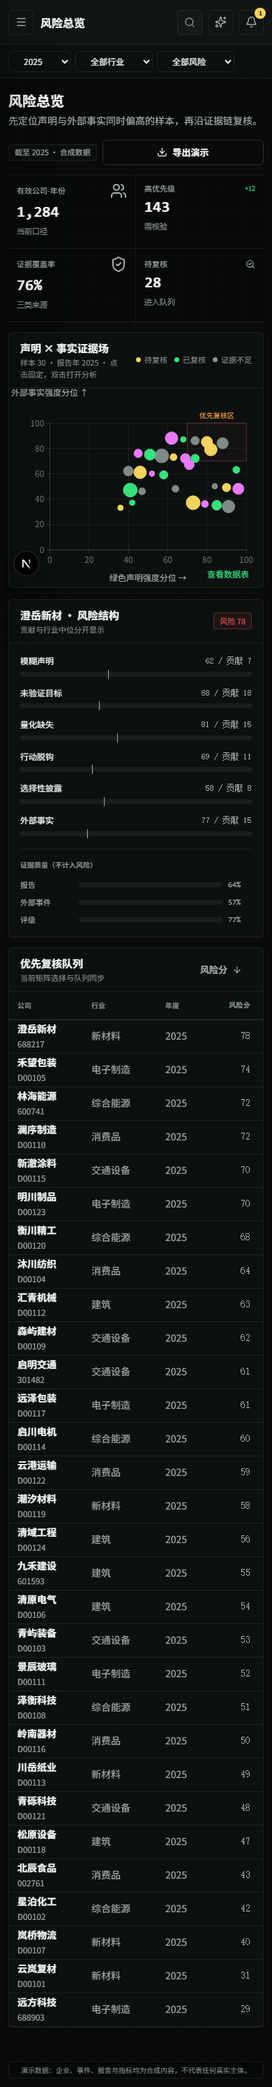
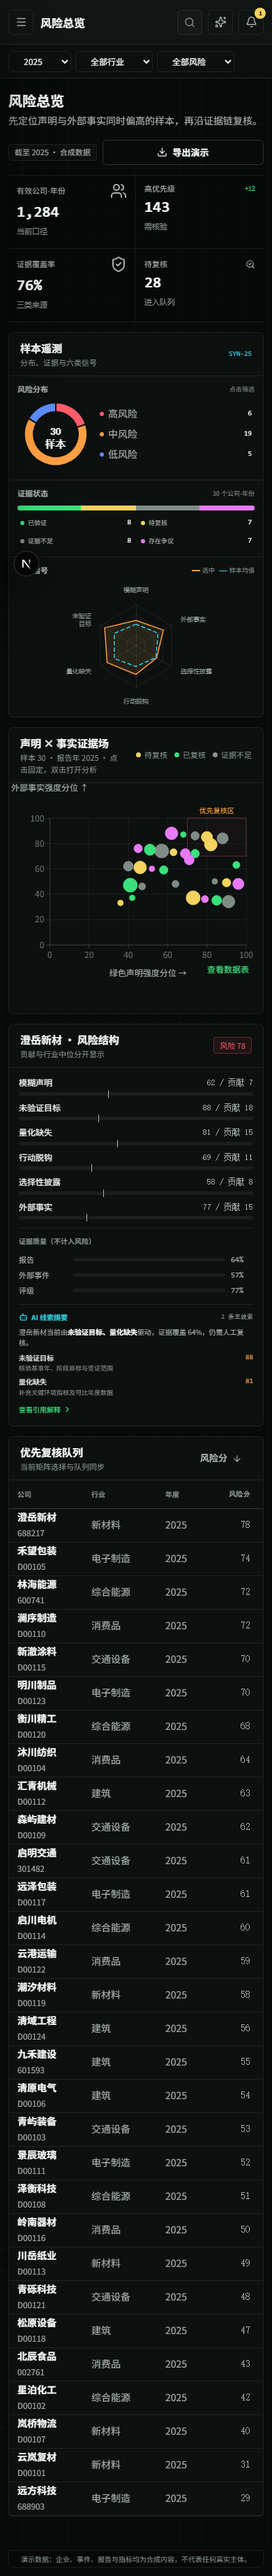
feat: enrich dashboard evidence telemetry

diff --git a/frontend-demo/src/app/globals.css b/frontend-demo/src/app/globals.css
@@ -145,8 +145,9 @@ kbd { padding: 2px 6px; border: 1px solid var(--line-strong); border-radius: 3px
 .metric-value small { margin-left: 7px; color: var(--text-muted); font-family: Inter, sans-serif; font-size: 11px; font-weight: 400; }
 .metric-delta { color: var(--green); font: 10px "IBM Plex Mono", monospace; }
 
-.dashboard-grid { display: grid; grid-template-columns: minmax(0, 2fr) minmax(310px, 1fr); gap: 16px; }
-.chart-panel { min-height: 410px; }
+.dashboard-page { gap: 16px; }
+.dashboard-grid { display: grid; grid-template-columns: minmax(220px,.72fr) minmax(0,2fr) minmax(290px,1fr); gap: 14px; align-items: stretch; }
+.chart-panel, .dashboard-telemetry, .dashboard-analysis-panel { min-height: 438px; }
 .chart-canvas { width: 100%; height: 340px; }
 .chart-wrap { position: relative; min-height: 340px; }
 .trace-line { position: absolute; z-index: 2; right: 8px; top: 100px; width: 30%; height: 90px; pointer-events: none; }
@@ -179,6 +180,50 @@ kbd { padding: 2px 6px; border: 1px solid var(--line-strong); border-radius: 3px
 .chart-data-table th, .chart-data-table td { height: 34px; padding: 0 8px; border-bottom: 1px solid var(--line-soft); text-align: left; }
 .contribution-button { width: 100%; padding: 0; border: 0; background: transparent; color: inherit; text-align: left; cursor: pointer; }
 .contribution-button:hover .contribution-meta span:first-child { color: var(--green); }
+.dashboard-telemetry { overflow: hidden; }
+.dashboard-telemetry .panel-header code { color: var(--cyan); font-size: 10px; }
+.telemetry-body { display: grid; }
+.telemetry-block { min-width: 0; padding: 10px 12px; border-bottom: 1px solid var(--line-soft); }
+.telemetry-block:last-child { border-bottom: 0; }
+.telemetry-block-title { display: flex; min-height: 18px; align-items: center; justify-content: space-between; gap: 8px; color: var(--text-secondary); font-size: 11px; font-weight: 600; }
+.telemetry-block-title small { color: var(--text-muted); font-size: 9px; font-weight: 400; }
+.telemetry-risk-layout { display: grid; grid-template-columns: 92px minmax(0,1fr); align-items: center; gap: 4px; }
+.telemetry-donut { width: 92px; height: 92px; }
+.telemetry-legend { display: grid; gap: 3px; }
+.telemetry-legend button, .evidence-state-grid button { display: grid; min-width: 0; min-height: 24px; align-items: center; padding: 2px 4px; border: 0; border-radius: 3px; background: transparent; color: var(--text-secondary); cursor: pointer; }
+.telemetry-legend button { grid-template-columns: 7px 1fr 22px; gap: 5px; text-align: left; }
+.telemetry-legend button:hover, .evidence-state-grid button:hover { background: var(--bg-hover); color: var(--text-primary); }
+.telemetry-legend i, .evidence-state-grid i { width: 6px; height: 6px; border-radius: 50%; }
+.telemetry-legend span { overflow: hidden; text-overflow: ellipsis; white-space: nowrap; }
+.telemetry-legend code, .evidence-state-grid code { color: var(--text-primary); font-size: 10px; text-align: right; }
+.evidence-stack { display: flex; height: 7px; margin: 8px 0 6px; overflow: hidden; border-radius: 3px; background: rgba(255,255,255,.05); }
+.evidence-stack i { min-width: 2px; height: 100%; }
+.evidence-state-grid { display: grid; grid-template-columns: repeat(2,minmax(0,1fr)); gap: 2px 6px; }
+.evidence-state-grid button { grid-template-columns: 1fr 20px; text-align: left; }
+.evidence-state-grid button span { display: flex; min-width: 0; align-items: center; gap: 5px; overflow: hidden; font-size: 9px; white-space: nowrap; }
+.telemetry-block-title .selected-series, .telemetry-block-title .average-series { display: inline-block; width: 12px; height: 2px; margin: 0 3px 2px 4px; background: var(--orange); }
+.telemetry-block-title .average-series { height: 1px; background: var(--cyan); }
+.telemetry-radar { width: 100%; height: 142px; }
+.telemetry-loading { display: grid; align-content: start; gap: 16px; padding: 16px; }
+.telemetry-loading .skeleton-panel { width: 100%; height: 350px; }
+.dashboard-analysis-panel .panel-body { padding: 12px 14px; }
+.dashboard-analysis-panel .contribution-list { gap: 8px; }
+.dashboard-analysis-panel .contribution-row { gap: 4px; }
+.dashboard-analysis-panel .bar-track { height: 5px; }
+.dashboard-analysis-panel .quality-summary { grid-template-columns: 1fr; gap: 5px; margin-top: 12px; padding-top: 10px; }
+.dashboard-analysis-panel .quality-row { grid-template-columns: 70px 1fr 32px; }
+.signal-brief { margin-top: 11px; padding-top: 10px; border-top: 1px solid var(--line-soft); }
+.signal-brief-heading { display: flex; align-items: center; justify-content: space-between; gap: 8px; }
+.signal-brief-heading > span { display: flex; align-items: center; gap: 5px; color: var(--cyan); font-size: 10px; font-weight: 650; }
+.signal-brief-heading code { color: var(--text-muted); font-size: 9px; }
+.signal-brief p { margin: 5px 0 7px; color: var(--text-secondary); font-size: 10px; line-height: 15px; }
+.signal-brief p strong { color: var(--text-primary); font-weight: 600; }
+.signal-brief ul { display: grid; gap: 4px; margin: 0; padding: 0; list-style: none; }
+.signal-brief li { display: grid; gap: 1px; }
+.signal-brief li > span { display: flex; align-items: center; justify-content: space-between; color: var(--text-primary); font-size: 10px; }
+.signal-brief li code { color: var(--orange); }
+.signal-brief li small { overflow: hidden; color: var(--text-muted); font-size: 9px; text-overflow: ellipsis; white-space: nowrap; }
+.signal-brief .text-button { display: flex; align-items: center; gap: 3px; margin-top: 5px; padding-left: 0; font-size: 10px; }
 .skeleton { display: block; border-radius: 4px; background: rgba(255,255,255,.06); animation: skeleton-pulse 1.2s ease-in-out infinite alternate; }
 .skeleton-header { width: 280px; height: 32px; }
 .skeleton-line { width: 65%; height: 12px; }
@@ -319,6 +364,7 @@ kbd { padding: 2px 6px; border: 1px solid var(--line-strong); border-radius: 3px
 .evidence-document { min-width: 0; background: #0a0e0d; }
 .evidence-document > header { display: flex; min-height: 52px; align-items: center; justify-content: space-between; padding: 8px 14px; border-bottom: 1px solid var(--line-soft); color: var(--text-muted); }
 .document-sheet { max-width: 720px; min-height: 520px; margin: 22px auto; padding: 34px 42px; background: #f0f3f1; color: #1c2d28; border-radius: 2px; box-shadow: 0 18px 60px rgba(0,0,0,.3); }
+.document-sheet .section-kicker { color: #4f5c56; }
 .document-sheet h3 { margin: 8px 0 20px; font-size: 20px; }
 .document-sheet p { font-size: 14px; line-height: 2; }
 .document-sheet mark { padding: 1px 2px; background: transparent; color: inherit; border-bottom: 2px solid var(--cyan); }
@@ -433,9 +479,19 @@ kbd { padding: 2px 6px; border: 1px solid var(--line-strong); border-radius: 3px
   :root { --sidebar-width: 72px; }
   .sidebar .brand-lockup > span:last-of-type, .sidebar .primary-nav span, .sidebar .sidebar-footer span, .sidebar .data-version { display: none; }
   .primary-nav a, .sidebar-action { justify-content: center; padding-inline: 0; }
-  .dashboard-grid { grid-template-columns: minmax(0, 7fr) minmax(300px, 5fr); }
+  .dashboard-grid { grid-template-columns: minmax(210px,.7fr) minmax(0,1.7fr) minmax(280px,1fr); }
   .methodology-layout { grid-template-columns:150px minmax(0,1fr); }.method-aside { display:none; }
   .evidence-workspace { grid-template-columns:190px minmax(360px,1fr); }.evidence-explanation { grid-column:1/-1;border-top:1px solid var(--line-soft);border-left:0; }
+}
+
+@media (max-width: 1179px) {
+  .dashboard-grid { grid-template-columns:minmax(0,1.7fr) minmax(280px,1fr); }
+  .dashboard-grid > .chart-panel { grid-column:1;grid-row:1; }
+  .dashboard-grid > .dashboard-analysis-panel { grid-column:2;grid-row:1; }
+  .dashboard-grid > .dashboard-telemetry { min-height:0;grid-column:1/-1;grid-row:2; }
+  .dashboard-telemetry .telemetry-body { grid-template-columns:repeat(3,minmax(0,1fr)); }
+  .dashboard-telemetry .telemetry-block { border-right:1px solid var(--line-soft);border-bottom:0; }
+  .dashboard-telemetry .telemetry-block:last-child { border-right:0; }
 }
 
 @media (max-width: 1023px) {
@@ -451,6 +507,8 @@ kbd { padding: 2px 6px; border: 1px solid var(--line-strong); border-radius: 3px
   .mobile-scrim.visible { display: block; }
   .main-content { padding-inline: 20px; }
   .dashboard-grid { grid-template-columns: 1fr; }
+  .dashboard-grid > .dashboard-telemetry, .dashboard-grid > .chart-panel, .dashboard-grid > .dashboard-analysis-panel { min-height:0;grid-column:auto;grid-row:auto; }
+  .dashboard-grid > .chart-panel { min-height:410px; }
   .command-trigger { width: 200px; }
   .metric-strip { grid-template-columns: repeat(2, 1fr); }
   .metric-item:nth-child(2) { border-right: 0; }
@@ -483,6 +541,12 @@ kbd { padding: 2px 6px; border: 1px solid var(--line-strong); border-radius: 3px
   .metric-value small { display: block; margin-left: 0; }
   .chart-panel { min-height: 350px; }
   .chart-canvas, .chart-wrap { height: 285px; min-height: 285px; }
+  .dashboard-telemetry .telemetry-body { grid-template-columns:1fr; }
+  .dashboard-telemetry .telemetry-block { border-right:0;border-bottom:1px solid var(--line-soft); }
+  .dashboard-telemetry .telemetry-block:last-child { border-bottom:0; }
+  .telemetry-risk-layout { grid-template-columns:110px minmax(0,1fr); }
+  .telemetry-donut { width:110px;height:110px; }
+  .telemetry-radar { height:190px; }
   .selected-summary, .trace-line { display: none; }
   .global-demo-notice { position: static; max-width: none; margin: 0 12px 12px; overflow: hidden; white-space: nowrap; text-overflow: ellipsis; text-align: center; }
   .global-drawer { width: 100vw; }

diff --git a/frontend-demo/src/app/dashboard/page.tsx b/frontend-demo/src/app/dashboard/page.tsx
@@ -1,12 +1,27 @@
 "use client";
 
-import { ArrowDown, ArrowUp, Download, ExternalLink, FileWarning, RefreshCw, SearchCheck, ShieldCheck, Users } from "lucide-react";
+import { ArrowDown, ArrowUp, Bot, ChevronRight, Download, ExternalLink, FileWarning, RefreshCw, SearchCheck, ShieldCheck, Users } from "lucide-react";
+import dynamic from "next/dynamic";
 import { useSearchParams } from "next/navigation";
 import { Suspense, useEffect, useMemo, useState } from "react";
 import { ClaimFactMatrix } from "@/components/charts/claim-fact-matrix";
 import { demoRepository, type DemoScenario } from "@/repositories/demo-repository";
 import { useDemoStore } from "@/stores/demo-store";
 import type { CompanyYearRecord } from "@/types";
+
+const DashboardTelemetry = dynamic(
+  () => import("@/components/charts/dashboard-telemetry").then((module) => module.DashboardTelemetry),
+  { ssr: false, loading: () => <TelemetryLoading /> },
+);
+
+const recommendations: Record<string, string> = {
+  VAGUE: "核对声明中的量化指标与适用边界",
+  UNVERIFIED_TARGET: "核验基准年、阶段目标与鉴证范围",
+  QUANT_GAP: "补充关键环境指标及可比年度数据",
+  DECOUPLING: "对齐承诺、投入与实际行动记录",
+  SELECTIVE: "检查披露范围是否排除高影响业务",
+  EXTERNAL_FACT: "确认事件主体、时点与报告边界",
+};
 
 export default function DashboardPage() {
   return <Suspense fallback={<DashboardLoading />}><DashboardContent /></Suspense>;
@@ -57,8 +72,9 @@ function DashboardContent() {
         <button className="metric-item metric-button" onClick={() => location.assign("/review")}><span className="metric-label"><span>待复核</span><SearchCheck size={14} /></span><div className="metric-value">{pendingReviews}<small>进入队列</small></div></button>
       </section>
       <div className="dashboard-grid">
+        <DashboardTelemetry companies={filtered} />
         <section className="panel chart-panel"><header className="panel-header"><div><h3>声明 × 事实证据场</h3><p>样本 {filtered.length} · 报告年 2025 · 点击固定，双击打开分析</p></div><span className="chart-legend"><i className="pending" />待复核 <i className="verified" />已复核 <i className="insufficient" />证据不足</span></header><ClaimFactMatrix companies={filtered} /></section>
-        <section className="panel"><header className="panel-header"><div><h3>{selected ? `${selected.companyName} · 风险结构` : "风险结构"}</h3><p>贡献与行业中位分开显示</p></div>{selected && <span className={`status-chip ${selected.riskBand}`}>风险 {selected.riskScore}</span>}</header><div className="panel-body">{selected && <><div className="contribution-list">{selected.components.map((component) => <button key={component.code} className="contribution-row contribution-button" onClick={() => { useDemoStore.getState().selectEvidence(component.evidenceIds[0]); openDrawer("ai"); }}><span className="contribution-meta"><span>{component.label}</span><span>{component.value} / 贡献 {component.contribution}</span></span><span className="bar-track"><span className="bar-fill" style={{ width: `${component.value}%` }} /><span className="bar-benchmark" style={{ left: `${component.industryMedian}%` }} /></span></button>)}</div><div className="quality-summary"><span className="section-kicker">证据质量（不计入风险）</span><Quality label="报告" value={selected.evidenceCoverage} /><Quality label="外部事件" value={Math.max(45, selected.evidenceCoverage - 7)} /><Quality label="评级" value={Math.min(96, selected.evidenceCoverage + 13)} /></div></>}</div></section>
+        <section className="panel dashboard-analysis-panel"><header className="panel-header"><div><h3>{selected ? `${selected.companyName} · 风险结构` : "风险结构"}</h3><p>贡献与行业中位分开显示</p></div>{selected && <span className={`status-chip ${selected.riskBand}`}>风险 {selected.riskScore}</span>}</header><div className="panel-body">{selected && <><div className="contribution-list">{selected.components.map((component) => <button key={component.code} className="contribution-row contribution-button" onClick={() => { useDemoStore.getState().selectEvidence(component.evidenceIds[0]); openDrawer("ai"); }}><span className="contribution-meta"><span>{component.label}</span><span>{component.value} / 贡献 {component.contribution}</span></span><span className="bar-track"><span className="bar-fill" style={{ width: `${component.value}%` }} /><span className="bar-benchmark" style={{ left: `${component.industryMedian}%` }} /></span></button>)}</div><div className="quality-summary"><span className="section-kicker">证据质量（不计入风险）</span><Quality label="报告" value={selected.evidenceCoverage} /><Quality label="外部事件" value={Math.max(45, selected.evidenceCoverage - 7)} /><Quality label="评级" value={Math.min(96, selected.evidenceCoverage + 13)} /></div><SignalBrief company={selected} onAI={() => { const first = [...selected.components].sort((a, b) => b.value - a.value)[0]; useDemoStore.getState().selectEvidence(first.evidenceIds[0]); openDrawer("ai"); }} /></>}</div></section>
       </div>
       <section className="panel queue-panel"><header className="panel-header"><div><h3>优先复核队列</h3><p>当前矩阵选择与队列同步</p></div><button className="quiet-button" onClick={() => setAscending(!ascending)}>风险分 {ascending ? <ArrowUp size={14} /> : <ArrowDown size={14} />}</button></header><div className="data-table-wrap"><table className="data-table"><thead><tr><th>公司</th><th>行业</th><th>年度</th><th className="numeric">风险分</th><th className="numeric">声明分位</th><th className="numeric">事实分位</th><th>证据状态</th><th className="numeric">待复核项</th><th>操作</th></tr></thead><tbody>{rows.map((company) => <tr key={company.companyId} className={company.companyId === selectedCompanyId ? "selected" : ""} onClick={() => selectCompany(company.companyId)}><td><strong>{company.companyName}</strong><br/><small>{company.stockCode}</small></td><td>{company.industry}</td><td>2025</td><td className="numeric">{company.riskScore}</td><td className="numeric">{company.claimPercentile}</td><td className="numeric">{company.factPercentile}</td><td><span className={`status-chip ${company.evidenceStatus}`}>{evidenceLabel(company.evidenceStatus)}</span></td><td className="numeric">{Math.max(1, Math.round(company.eventCount / 2))}</td><td><button className="table-action" onClick={(event) => { event.stopPropagation(); location.assign(`/companies/${company.companyId}?year=2025`); }}>打开分析 <ExternalLink size={13} /></button></td></tr>)}</tbody></table></div></section>
     </div>
@@ -67,6 +83,11 @@ function DashboardContent() {
 
 function Metric({ icon, label, value, note, delta }: { icon: React.ReactNode; label: string; value: string; note: string; delta?: string }) { return <div className="metric-item"><span className="metric-label"><span>{label}</span>{delta ? <span className="metric-delta">{delta}</span> : icon}</span><div className="metric-value">{value}<small>{note}</small></div></div>; }
 function Quality({ label, value }: { label: string; value: number }) { return <div className="quality-row"><span>{label}</span><span className="bar-track"><span className="bar-fill" style={{ width: `${value}%` }} /></span><code>{value}%</code></div>; }
+function SignalBrief({ company, onAI }: { company: CompanyYearRecord; onAI: () => void }) {
+  const claims = [...company.components].sort((a, b) => b.value - a.value).slice(0, 2);
+  return <section className="signal-brief"><div className="signal-brief-heading"><span><Bot size={13}/>AI 线索摘要</span><code>{claims.length} 条主线索</code></div><p>{company.companyName}当前由<strong>{claims.map((claim) => claim.label).join("、")}</strong>驱动，证据覆盖 {company.evidenceCoverage}%，仍需人工复核。</p><ul>{claims.map((claim) => <li key={claim.code}><span>{claim.label}<code>{claim.value}</code></span><small>{recommendations[claim.code]}</small></li>)}</ul><button className="text-button" onClick={onAI}>查看引用解释 <ChevronRight size={13}/></button></section>;
+}
 function evidenceLabel(status: CompanyYearRecord["evidenceStatus"]) { return { verified: "已验证", pending: "待复核", insufficient: "证据不足", disputed: "存在争议" }[status]; }
 function DashboardLoading() { return <div className="page"><div className="skeleton skeleton-header" /><div className="metric-strip">{[1,2,3,4].map((i) => <div className="metric-item" key={i}><span className="skeleton skeleton-line" /><span className="skeleton skeleton-value" /></div>)}</div><div className="dashboard-grid"><div className="panel skeleton-panel"/><div className="panel skeleton-panel"/></div></div>; }
+function TelemetryLoading() { return <div className="panel dashboard-telemetry telemetry-loading" aria-label="正在加载样本遥测"><span className="skeleton skeleton-line"/><span className="skeleton skeleton-panel"/></div>; }
 function StatePanel({ title, detail, action, onAction }: { title: string; detail: string; action: string; onAction: () => void }) { return <div className="state-panel"><RefreshCw size={24}/><h2>{title}</h2><p>{detail}</p><button className="primary-button" onClick={onAction}>{action}</button></div>; }

diff --git a/frontend-demo/src/components/charts/dashboard-telemetry.tsx b/frontend-demo/src/components/charts/dashboard-telemetry.tsx
@@ -1,0 +1,141 @@
+"use client";
+
+import * as echarts from "echarts";
+import { useEffect, useMemo, useRef } from "react";
+import { useDemoStore } from "@/stores/demo-store";
+import type { CompanyYearRecord } from "@/types";
+
+const riskBands = [
+  { key: "high", label: "高风险", color: "#FF5C6C" },
+  { key: "medium", label: "中风险", color: "#FF9F43" },
+  { key: "low", label: "低风险", color: "#5B8CFF" },
+] as const;
+
+const evidenceStates = [
+  { key: "verified", label: "已验证", color: "#38E07B" },
+  { key: "pending", label: "待复核", color: "#F4D35E" },
+  { key: "insufficient", label: "证据不足", color: "#7F8C86" },
+  { key: "disputed", label: "存在争议", color: "#E879F9" },
+] as const;
+
+export function DashboardTelemetry({ companies }: { companies: CompanyYearRecord[] }) {
+  const riskChart = useRef<HTMLDivElement>(null);
+  const radarChart = useRef<HTMLDivElement>(null);
+  const { selectedCompanyId, selectCompany, setFilters } = useDemoStore();
+  const selected = companies.find((company) => company.companyId === selectedCompanyId) ?? companies[0];
+
+  const riskData = useMemo(() => riskBands.map((band) => ({
+    ...band,
+    value: companies.filter((company) => company.riskBand === band.key).length,
+  })), [companies]);
+  const evidenceData = useMemo(() => evidenceStates.map((state) => ({
+    ...state,
+    value: companies.filter((company) => company.evidenceStatus === state.key).length,
+  })), [companies]);
+  const componentAverages = useMemo(() => selected.components.map((component, index) => {
+    const total = companies.reduce((sum, company) => sum + company.components[index].value, 0);
+    return Math.round(total / Math.max(1, companies.length));
+  }), [companies, selected.components]);
+
+  useEffect(() => {
+    if (!riskChart.current) return;
+    const chart = echarts.init(riskChart.current, undefined, { renderer: "canvas" });
+    chart.setOption({
+      animationDuration: 360,
+      aria: { enabled: true, decal: { show: false }, description: `当前筛选共 ${companies.length} 家合成公司，按风险等级展示样本数量。` },
+      tooltip: {
+        trigger: "item",
+        backgroundColor: "rgba(12,17,16,.96)",
+        borderColor: "rgba(255,255,255,.16)",
+        textStyle: { color: "#F4F7F5" },
+        formatter: "{b}<br/>{c} 家 · {d}%",
+      },
+      series: [{
+        type: "pie",
+        radius: ["58%", "82%"],
+        center: ["50%", "50%"],
+        avoidLabelOverlap: true,
+        silent: true,
+        label: { show: false },
+        itemStyle: { borderColor: "#0C1110", borderWidth: 2 },
+        data: riskData.map((item) => ({ name: item.label, value: item.value, itemStyle: { color: item.color } })),
+      }],
+      graphic: [{
+        type: "text",
+        left: "center",
+        top: "38%",
+        style: { text: `${companies.length}\n样本`, fill: "#F4F7F5", font: '600 14px "IBM Plex Mono", monospace', textAlign: "center", lineHeight: 18 },
+      }],
+    });
+    const resize = new ResizeObserver(() => chart.resize());
+    resize.observe(riskChart.current);
+    return () => { resize.disconnect(); chart.dispose(); };
+  }, [companies.length, riskData]);
+
+  useEffect(() => {
+    if (!radarChart.current) return;
+    const chart = echarts.init(radarChart.current, undefined, { renderer: "canvas" });
+    chart.setOption({
+      animationDurationUpdate: 320,
+      aria: { enabled: true, decal: { show: false }, description: `${selected.companyName}六类风险信号与当前样本均值对比。` },
+      tooltip: {
+        trigger: "item",
+        backgroundColor: "rgba(12,17,16,.96)",
+        borderColor: "rgba(255,255,255,.16)",
+        textStyle: { color: "#F4F7F5" },
+      },
+      radar: {
+        center: ["50%", "52%"],
+        radius: "62%",
+        splitNumber: 4,
+        indicator: selected.components.map((component) => ({ name: component.label.replace("未验证", "未验证\n"), max: 100 })),
+        axisName: { color: "#89958F", fontSize: 9, lineHeight: 11 },
+        axisLine: { lineStyle: { color: "rgba(255,255,255,.09)" } },
+        splitLine: { lineStyle: { color: "rgba(255,255,255,.08)" } },
+        splitArea: { show: false },
+      },
+      series: [{
+        type: "radar",
+        symbol: "none",
+        lineStyle: { width: 1.5 },
+        data: [
+          { name: selected.companyName, value: selected.components.map((component) => component.value), lineStyle: { color: "#FF9F43" }, areaStyle: { color: "rgba(255,159,67,.16)" } },
+          { name: "当前样本均值", value: componentAverages, lineStyle: { color: "#30D5E8", type: "dashed" }, areaStyle: { color: "rgba(48,213,232,.04)" } },
+        ],
+      }],
+    });
+    const resize = new ResizeObserver(() => chart.resize());
+    resize.observe(radarChart.current);
+    return () => { resize.disconnect(); chart.dispose(); };
+  }, [componentAverages, selected]);
+
+  return (
+    <section className="panel dashboard-telemetry" aria-label="样本遥测">
+      <header className="panel-header"><div><h3>样本遥测</h3><p>分布、证据与六类信号</p></div><code>SYN-25</code></header>
+      <div className="telemetry-body">
+        <section className="telemetry-block risk-mix">
+          <div className="telemetry-block-title"><span>风险分布</span><small>点击筛选</small></div>
+          <div className="telemetry-risk-layout">
+            <div ref={riskChart} className="telemetry-donut" role="img" aria-label="风险等级分布环图" />
+            <div className="telemetry-legend">
+              {riskData.map((item) => <button key={item.key} onClick={() => setFilters({ risk: item.label })}><i style={{ background: item.color }} /><span>{item.label}</span><code>{item.value}</code></button>)}
+            </div>
+          </div>
+        </section>
+        <section className="telemetry-block evidence-mix">
+          <div className="telemetry-block-title"><span>证据状态</span><small>{companies.length} 个公司-年份</small></div>
+          <div className="evidence-stack" aria-label="证据状态占比">
+            {evidenceData.map((item) => <i key={item.key} style={{ width: `${item.value / Math.max(1, companies.length) * 100}%`, background: item.color }} title={`${item.label} ${item.value} 家`} />)}
+          </div>
+          <div className="evidence-state-grid">
+            {evidenceData.map((item) => <button key={item.key} onClick={() => selectCompany(companies.find((company) => company.evidenceStatus === item.key)?.companyId ?? null)}><span><i style={{ background: item.color }} />{item.label}</span><code>{item.value}</code></button>)}
+          </div>
+        </section>
+        <section className="telemetry-block signal-radar">
+          <div className="telemetry-block-title"><span>六类信号</span><small><i className="selected-series" />选中 <i className="average-series" />样本均值</small></div>
+          <div ref={radarChart} className="telemetry-radar" role="img" aria-label={`${selected.companyName}六类风险信号雷达图`} />
+        </section>
+      </div>
+    </section>
+  );
+}

diff --git a/frontend-demo/tests/e2e/workflows.spec.ts b/frontend-demo/tests/e2e/workflows.spec.ts
@@ -9,10 +9,17 @@ function monitorConsole(page: Page) {
 test("workflow A: dashboard to cited evidence and review", async ({ page }) => {
   const errors = monitorConsole(page);
   await page.goto("/dashboard");
-  await expect(page.getByRole("heading", { name: "风险总览" })).toBeVisible();
-  const canvas = page.locator("canvas").first();
-  await expect(canvas).toBeVisible();
-  expect(await canvas.evaluate((node) => (node as HTMLCanvasElement).toDataURL().length)).toBeGreaterThan(1000);
+  await expect(page.getByRole("heading", { name: "风险总览", level: 2 })).toBeVisible();
+  await expect(page.getByRole("heading", { name: "样本遥测" })).toBeVisible();
+  const canvases = page.locator("canvas");
+  await expect(canvases).toHaveCount(3);
+  for (const canvas of await canvases.all()) {
+    await expect(canvas).toBeVisible();
+    expect(await canvas.evaluate((node) => (node as HTMLCanvasElement).toDataURL().length)).toBeGreaterThan(1000);
+  }
+  await page.getByRole("button", { name: /高风险/ }).click();
+  await expect(page.locator(".context-bar select").nth(2)).toHaveValue("高风险");
+  await page.getByRole("button", { name: "清除筛选" }).click();
   await page.getByRole("button", { name: /打开分析/ }).first().click();
   await expect(page.getByRole("heading", { name: "澄岳新材" })).toBeVisible();
   await page.getByRole("button", { name: /主要原因/ }).click();
@@ -83,7 +90,7 @@ for (const viewport of [
   test(`visual smoke: ${viewport.name}`, async ({ page }) => {
     await page.setViewportSize({ width: viewport.width, height: viewport.height });
     await page.goto("/dashboard");
-    await expect(page.getByRole("heading", { name: "风险总览" })).toBeVisible();
+    await expect(page.getByRole("heading", { name: "风险总览", level: 2 })).toBeVisible();
     await expect(page.locator("canvas").first()).toBeVisible();
     await page.waitForFunction(() => {
       const canvas = document.querySelector("canvas");
